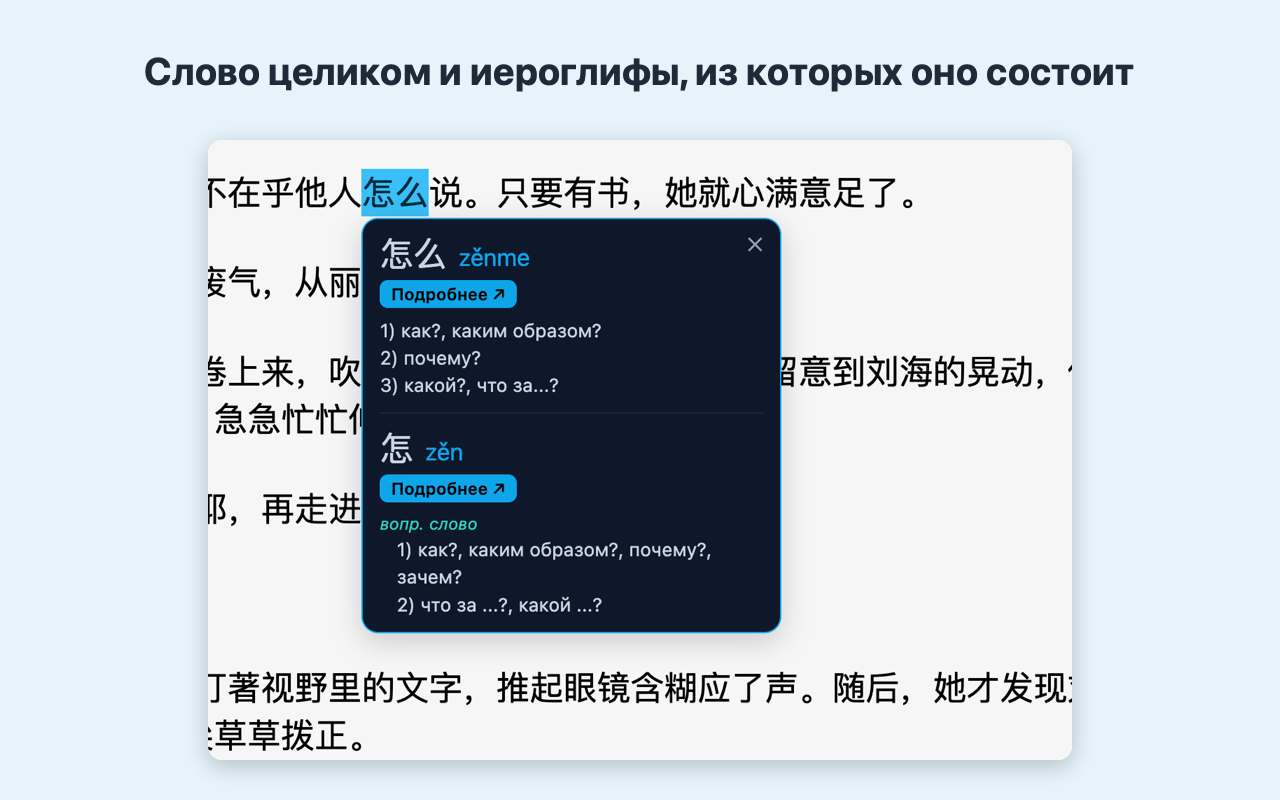
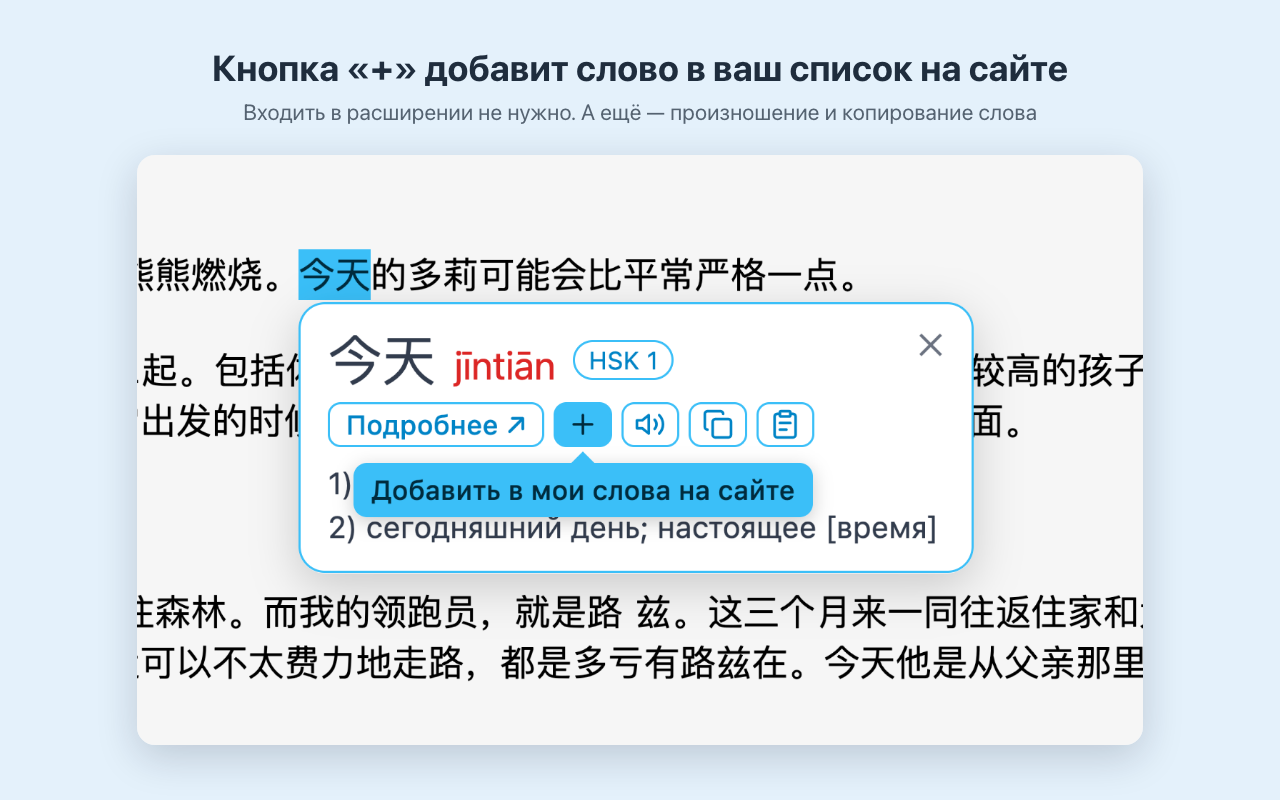
[extention] update extention page on FE

Changed region(s): [[0.0938, 0.0625, 0.9062, 0.9688]]

diff --git a/qwik/src/routes/extension/index.tsx b/qwik/src/routes/extension/index.tsx
@@ -15,7 +15,7 @@ import {
 
 const TITLE = 'Переводчик с китайского на русский при наведении курсора — расширение для браузера';
 const DESCRIPTION =
-  'Бесплатное расширение для Chrome, Яндекс Браузера и Firefox: наведите курсор на китайское слово — и увидите пиньинь и перевод на русский. Чэнъюи, слова HSK, работает офлайн.';
+  'Бесплатное расширение для Chrome, Яндекс Браузера и Firefox: наведите курсор на китайское слово — и увидите пиньинь, перевод на русский и уровень HSK. Произношение, добавление в свои слова, работает офлайн.';
 
 const FAQ = [
   {
@@ -24,7 +24,15 @@ const FAQ = [
   },
   {
     q: 'Нужен ли интернет?',
-    a: 'Нет. Словарь встроен в расширение, поэтому подсказки работают без интернета. Сеть нужна только чтобы открыть слово на сайте кнопкой «Подробнее».',
+    a: 'Нет. Словарь встроен в расширение, поэтому подсказки работают без интернета. Сеть нужна только чтобы открыть слово на сайте кнопками «Подробнее» и «+». Произношение работает офлайн, если в системе есть китайский голос.',
+  },
+  {
+    q: 'Как добавить слово в свой список слов?',
+    a: 'Нажмите «+» в подсказке: слово откроется на сайте, и останется подтвердить добавление. Входить в аккаунт в расширении не нужно — достаточно быть залогиненным на chineseplus.club. Если вы не вошли, сайт сначала попросит войти, а потом вернёт вас к слову.',
+  },
+  {
+    q: 'Подсказки мешают читать. Можно показывать их только по запросу?',
+    a: 'Да: включите в меню расширения «Только с зажатым Shift». Тогда подсказка появляется, только когда вы наводите курсор на слово и нажимаете Shift.',
   },
   {
     q: 'Какие слова есть в словаре?',
@@ -40,7 +48,7 @@ const FAQ = [
   },
   {
     q: 'Как выключить подсказки?',
-    a: 'Нажмите на значок расширения в панели браузера и снимите галочку «Показывать перевод». На компьютере можно нажать Alt+Shift+Y (на macOS — Option+Shift+Y).',
+    a: 'Нажмите на значок расширения в панели браузера и снимите галочку «Вкл / выкл». На компьютере можно нажать Alt+Shift+Y (на macOS — Option+Shift+Y).',
   },
   {
     q: 'Собирает ли расширение мои данные?',
@@ -90,10 +98,10 @@ export default component$(() => {
             </div>
 
             <img
-              src="/img/extension/screenshot-1.jpg"
+              src="/img/extension/popup-hsk.jpg"
               width={1280}
               height={800}
-              alt="Подсказка расширения над китайским словом 时代: пиньинь shídài и перевод"
+              alt="Подсказка расширения над словом 没关系: пиньинь méiguānxi, раскрашенный по тонам, уровень HSK 1 и перевод"
               class="rounded-box shadow"
               loading="lazy"
             />
@@ -113,11 +121,33 @@ export default component$(() => {
                 Традиционные иероглифы тоже распознаются.
               </li>
               <li>
+                <b>Уровень HSK 3.0</b> у слов из{' '}
+                <Link prefetch="js" href="/hsk">
+                  списков HSK
+                </Link>
+                .
+              </li>
+              <li>
+                <b>Кнопка «+»</b> добавляет слово в ваш список слов на сайте — без входа в аккаунт в
+                расширении.
+              </li>
+              <li>
+                <b>Произношение</b> голосом браузера и <b>копирование</b> слова или слова вместе с
+                переводом — одной кнопкой.
+              </li>
+              <li>
                 <b>Кнопка «Подробнее»</b> открывает слово в{' '}
                 <Link prefetch="js" href="/dictionary">
                   словаре Chinese+
                 </Link>
-                : примеры, анимированный порядок черт, добавление в свой список слов.
+                : примеры, анимированный порядок черт.
+              </li>
+              <li>
+                <b>Цвет пиньиня по тонам</b> — по желанию.
+              </li>
+              <li>
+                <b>Режим «Только с зажатым Shift»</b> — если постоянные подсказки мешают: подсказка
+                появляется, только когда вы нажимаете Shift.
               </li>
               <li>
                 <b>Работает без интернета</b> — словарь встроен в расширение.
@@ -128,10 +158,10 @@ export default component$(() => {
             </ul>
 
             <img
-              src="/img/extension/screenshot-2.jpg"
+              src="/img/extension/popup-parts-dark.jpg"
               width={1280}
               height={800}
-              alt="Подсказка для 怎么 и 怎: слово целиком и иероглиф, из которого оно состоит"
+              alt="Подсказка в тёмной теме для 森林 и 森: слово целиком и иероглиф, из которого оно состоит"
               class="rounded-box shadow"
               loading="lazy"
             />
@@ -144,15 +174,33 @@ export default component$(() => {
                 телефоне в Firefox — нажмите на слово.
               </li>
               <li>
-                Чтобы открыть слово на сайте, нажмите «Подробнее» в подсказке. Подсказка не
-                пропадёт, пока вы ведёте к ней курсор.
+                Чтобы открыть слово на сайте, нажмите «Подробнее» в подсказке, чтобы добавить его в
+                свой список слов — «+». Подсказка не пропадёт, пока вы ведёте к ней курсор.
               </li>
               <li>
                 Настройки — в меню расширения (значок на панели браузера): включение, тема, показ
-                слов внутри слова. Быстро включить или выключить: Alt+Shift+Y (на macOS —
-                Option+Shift+Y).
+                слов внутри слова, цвет пиньиня по тонам, режим «Только с зажатым Shift». Быстро
+                включить или выключить: Alt+Shift+Y (на macOS — Option+Shift+Y).
               </li>
             </ol>
+
+            <img
+              src="/img/extension/popup-add.jpg"
+              width={1280}
+              height={800}
+              alt="Подсказка для 今天 и кнопка «+» с подсказкой «Добавить в мои слова на сайте»"
+              class="rounded-box shadow"
+              loading="lazy"
+            />
+
+            <img
+              src="/img/extension/mobile.jpg"
+              width={1280}
+              height={800}
+              alt="Расширение в Firefox для Android: подсказка для слова 最后 после нажатия на него"
+              class="rounded-box shadow"
+              loading="lazy"
+            />
             <p>
               Нет возможности поставить расширение (например, Chrome на Android)? Вставьте текст в{' '}
               <Link prefetch="js" href="/segment">
@@ -189,6 +237,7 @@ export default component$(() => {
           name: 'ChinesePlus: читай по-китайски с подсказками',
           applicationCategory: 'EducationalApplication',
           operatingSystem: 'Chrome, Firefox, Firefox для Android',
+          softwareVersion: '1.1.0',
           description: DESCRIPTION,
           url: `${CONST_URLS.siteUrl}${extensionUrl}`,
           image: `${CONST_URLS.siteUrl}${extensionOgImage}`,

diff --git a/qwik/src/routes/extension/privacy/index.tsx b/qwik/src/routes/extension/privacy/index.tsx
@@ -60,13 +60,24 @@ export default component$(() => {
                 Текст страниц, адреса сайтов и история просмотра никуда не отправляются и не
                 сохраняются.
               </li>
+              <li>
+                Кнопки копирования кладут слово (или слово с переводом) в буфер обмена — только
+                когда вы на них нажимаете.
+              </li>
+              <li>
+                Кнопка произношения озвучивает слово голосом, встроенным в браузер или систему (Web
+                Speech API). Само расширение ничего не отправляет. Некоторые браузеры (например,
+                Chrome, если в системе нет китайского голоса) озвучивают текст онлайн-голосом
+                производителя браузера — тогда браузер передаёт ему это слово по его собственным
+                правилам.
+              </li>
             </ul>
 
             <h2>Что хранится</h2>
             <p>
-              Только ваши настройки расширения: включено ли оно, тема подсказок и показ слов внутри
-              слова. Они хранятся в памяти браузера на вашем устройстве и удаляются вместе с
-              расширением.
+              Только ваши настройки расширения: включено ли оно, тема подсказок, показ слов внутри
+              слова, цвет пиньиня по тонам и режим «Только с зажатым Shift». Они хранятся в памяти
+              браузера на вашем устройстве и удаляются вместе с расширением.
             </p>
 
             <h2>Разрешения</h2>
@@ -87,8 +98,11 @@ export default component$(() => {
               <Link prefetch="js" href="/">
                 chineseplus.club
               </Link>{' '}
-              — только когда вы сами на неё нажимаете. В ссылке есть пометка, что переход сделан из
-              расширения (utm_source=browser_extension). На сайте действуют его обычные правила.
+              — только когда вы сами на неё нажимаете. Кнопка «+» открывает ту же страницу, где сайт
+              предложит добавить слово в ваш список слов (если вы не вошли на сайт — сначала войти).
+              Расширение не хранит ни вход, ни данные аккаунта. В ссылках есть пометка, что переход
+              сделан из расширения (utm_source=browser_extension). На сайте действуют его обычные
+              правила.
             </p>
 
             <h2>Передача третьим лицам</h2>
@@ -136,13 +150,23 @@ export default component$(() => {
                   requests.
                 </li>
                 <li>Page content, URLs and browsing history are never sent anywhere or saved.</li>
+                <li>
+                  The copy buttons put the word (or the word with its translation) on the clipboard,
+                  only when you click them.
+                </li>
+                <li>
+                  The pronunciation button speaks the word with a voice built into the browser or
+                  the operating system (Web Speech API). The extension itself sends nothing. Some
+                  browsers (e.g. Chrome without a Chinese system voice) speak through the browser
+                  vendor's online voice; the browser then sends that word to it under its own terms.
+                </li>
               </ul>
 
               <h3>What is stored</h3>
               <p>
                 Only your extension settings (on/off, tooltip theme, showing shorter words inside
-                the hovered word), kept in the browser's local extension storage on your device.
-                They are removed when you uninstall the extension.
+                the hovered word, pinyin tone colors, Shift-only mode), kept in the browser's local
+                extension storage on your device. They are removed when you uninstall the extension.
               </p>
 
               <h3>Permissions</h3>
@@ -159,8 +183,10 @@ export default component$(() => {
               <h3>Links to chineseplus.club</h3>
               <p>
                 The “Подробнее” (“More”) button opens the word's page on chineseplus.club only when
-                you click it. The link carries a marker that the visit came from the extension
-                (utm_source=browser_extension). The website's own terms apply there.
+                you click it. The “+” button opens the same page, where the website offers to add
+                the word to your word list (after a login on the website if needed). The extension
+                keeps no login or account data. The links carry a marker that the visit came from
+                the extension (utm_source=browser_extension). The website's own terms apply there.
               </p>
 
               <h3>Third parties</h3>

diff --git a/qwik/src/components/extension/types.ts b/qwik/src/components/extension/types.ts
@@ -3,7 +3,7 @@
 
 export const extensionUrl = '/extension';
 export const extensionPrivacyUrl = '/extension/privacy';
-export const extensionOgImage = '/img/extension/og.jpg';
+export const extensionOgImage = '/img/extension/og-2.jpg';
 
 // null until the store listing is published: the button shows "скоро"
 export const EXTENSION_STORES: { name: string; note: string; url: string | null }[] = [
@@ -20,5 +20,5 @@ export const EXTENSION_STORES: { name: string; note: string; url: string | null 
 ];
 
 // date of the current privacy policy text, shown on /extension/privacy
-export const PRIVACY_UPDATED = '8 ноября 2026';
-export const PRIVACY_UPDATED_EN = 'November 8, 2026';
+export const PRIVACY_UPDATED = '11 ноября 2026';
+export const PRIVACY_UPDATED_EN = 'November 11, 2026';

diff --git a/extension/store-listing.md b/extension/store-listing.md
@@ -38,7 +38,11 @@ ChinesePlus: читай по-китайски с подсказками
 
 ## Подписи к снимкам экрана (в этом порядке)
 
-1. 时代, светлая тема: Наведите курсор на слово — пиньинь и перевод сразу
-2. 怎么 + 怎: Слово целиком и иероглифы, из которых оно состоит
-3. 墨水, тёмная тема: Светлая или тёмная тема — на ваш выбор
-4. 立功, подсказка у кнопки: «Подробнее» — примеры, анимированный порядок черт и добавление в свои слова на chineseplus.club
+Файлы: `store-assets/screenshot-1.png` … `screenshot-5.png` (1280×800), баннер
+`store-assets/promo-marquee-1400x560.png` (он же `qwik/public/img/extension/og-2.jpg`).
+
+1. 没关系, светлая тема, цвет тонов: Наведите курсор — пиньинь, перевод и уровень HSK
+2. 今天, подсказка у «+»: Кнопка «+» добавит слово в ваш список на сайте
+3. 森林 + 森, тёмная тема: Слово целиком и иероглифы, из которых оно состоит
+4. Меню расширения: Всё настраивается в меню расширения — тона, режим «только с Shift», тема
+5. 最后 на телефоне: На телефоне — в Firefox для Android
